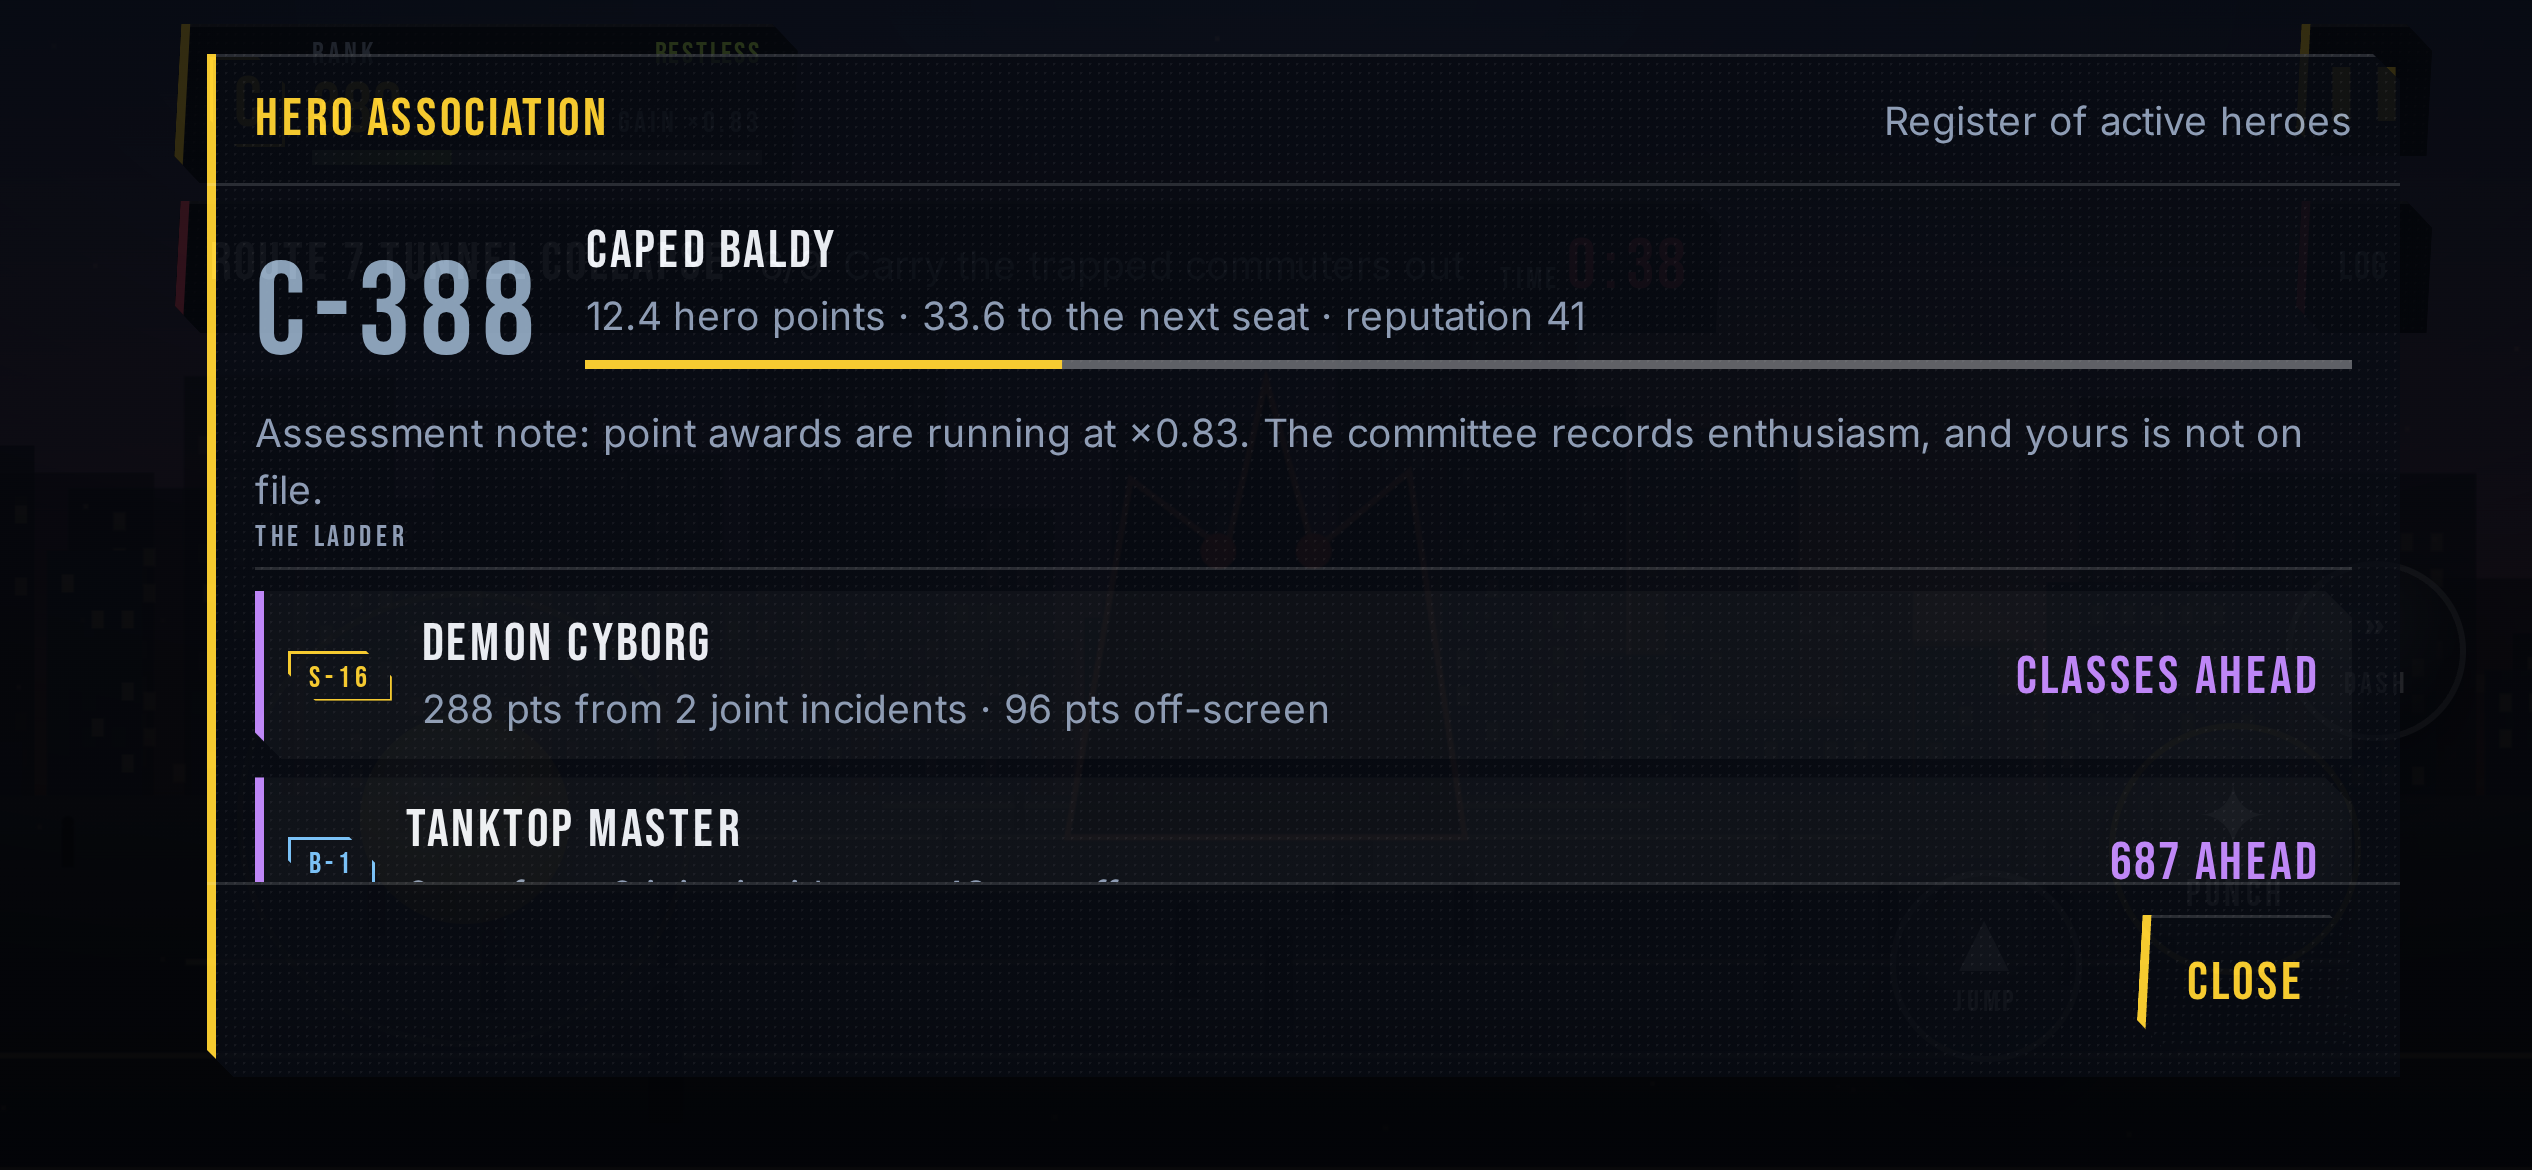
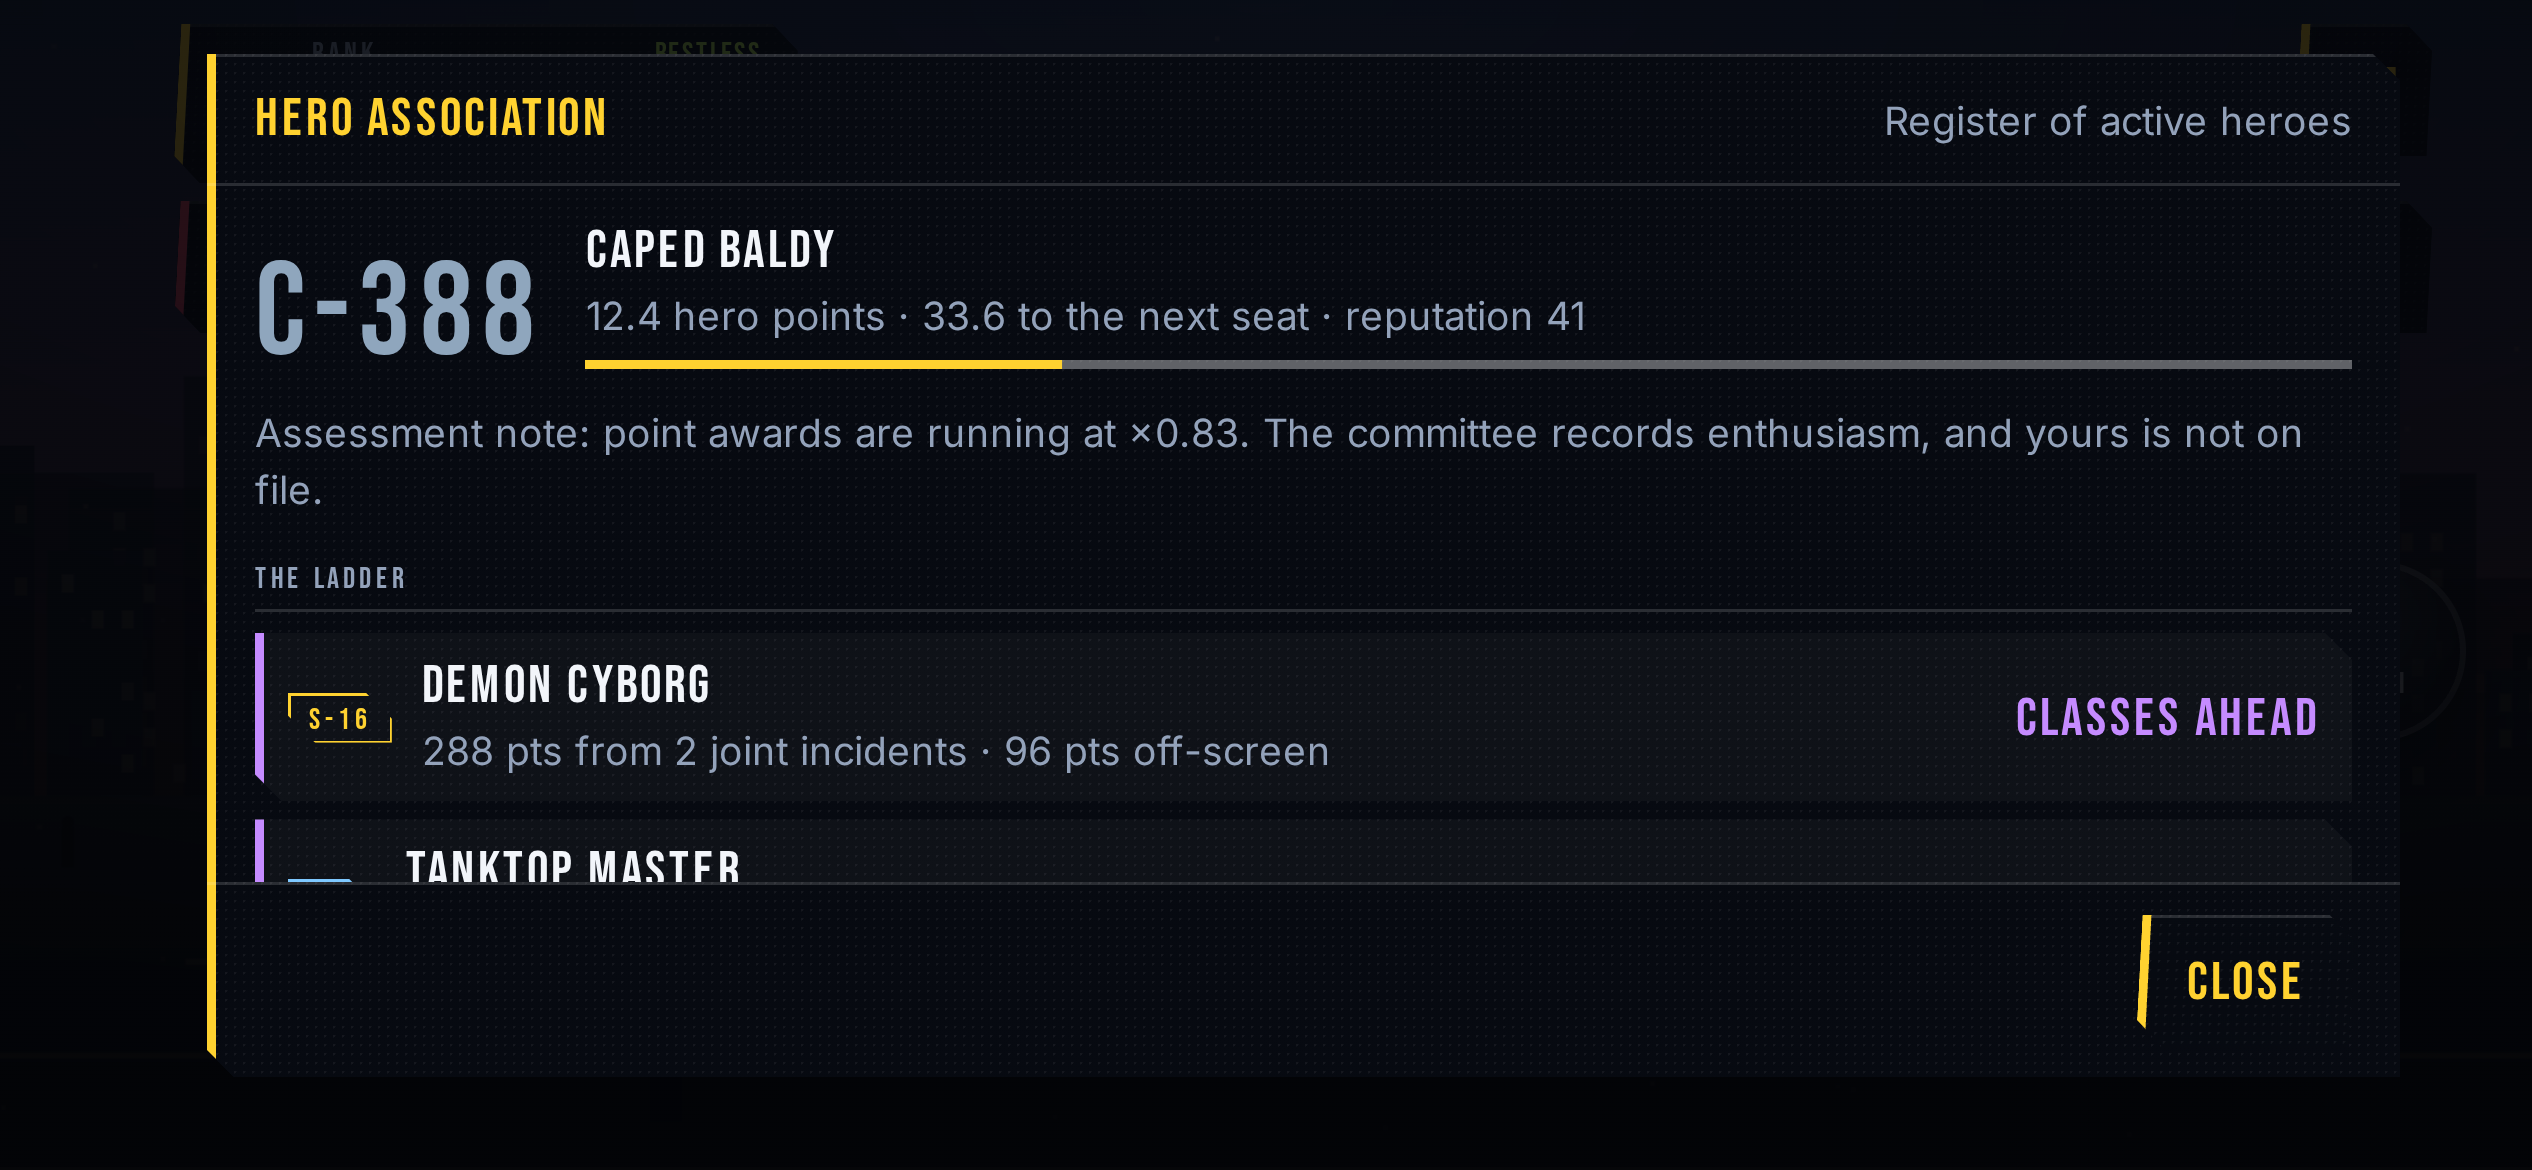
Refresh the HUD evidence after another redesign pass
159 harness checks, zero failures. CLS exactly 0 with no offending writes, and
`stolenTouches` still empty.

Claude-Session: https://claude.ai/code/session_01QU3kHNpXWhesDJjfHp9d7E

diff --git a/src/ui/hud/styles.ts b/src/ui/hud/styles.ts
@@ -92,8 +92,11 @@
  *   · the encounter card and the boss bar are ONE plate (the incident),
  *   · the quest tracker is a single-line DUTY STRIP, not a card.
  *
- * Four panels became three plates and a strip, and the band went from
- * overflowing at 100 % to fitting at 130 %.
+ * Six panels became three plates and a duty row, and the band went from
+ * overflowing at 100 % — the right column reached 6 px into a hand at 130 % —
+ * to closing at y=114 at 100 % and y=125 at 130 %, both above the 129 px line.
+ * `--hud-band-row` is this file's own statement of that budget and the harness
+ * fails if row one outgrows it.
  *
  * ── WHERE THE ALERTS WENT, AND WHY ─────────────────────────────────────────
  * The threat banner used to be `left:50%` in the z-index 4 layer while the
@@ -122,9 +125,9 @@
  * panels needed anyway: `--hud-surface` is 82 % opaque, tuned against the dusk
  * sky in the committed reference shots, and the shipping game is DAYTIME. The
  * rank chip's fill measurably swung rgb(30,32,37)→(39,44,52) with the windows
- * behind it. `--hud-panel` now lays the palette's own surface down TWICE, so
- * every palette composes to ~97 % by its own colour rather than by a literal,
- * and the city bleed drops from ~18 % to ~3 %.
+ * behind it. `--hud-panel` now lays the palette's own surface down THREE TIMES,
+ * so every palette composes to ~99 % by its own colour rather than by a
+ * literal, and the city bleed drops from ~18 % to under 1 %.
  *
  * ── EVERY ANIMATED PROPERTY IS COMPOSITED ──────────────────────────────────
  * `transform` and `opacity` only, and only three motions exist:
@@ -137,6 +140,10 @@
  *            bar that said zero.
  *   PULSE    urgent. A hard `steps(1,end)` flash. Never a fade: a fade reads as
  *            a rendering artefact, a flash reads as an alarm.
+ *
+ * THREE, and a screen opening is not one of them — see `.hud-screen`, which
+ * used to cross-fade for 160 ms and cost this project every readable screenshot
+ * of a modal it has ever committed.
  *
  * All three are killed outright by `[data-reduced-motion='true']` at the bottom
  * of this file.
@@ -355,9 +362,11 @@ ${allPalettes()}
   letter-spacing:.14em;text-transform:uppercase;
   color:var(--hud-ink-muted);line-height:1.1;white-space:nowrap;
 }
-/* Every live number on the playing HUD, at one size. The rank, the fight
-   clock, the ledger counts, the yen, the quest clock — they were 19, 21, 23,
-   17 and 20 px, which is why no two of them ever sat on a shared baseline. */
+/* EVERY LIVE NUMBER ON THE PLAYING HUD, AT ONE SIZE, FROM ONE RULE. The rank,
+   the fight clock, the ledger counts, the yen, the quest clock and the boot
+   percentage were 19, 21, 23, 17, 20 and 13 px in six separate declarations,
+   which is why no two of them ever sat on a shared baseline and why fixing one
+   never fixed the others. They all carry this class now. */
 .hud-readout{
   font-family:${DISPLAY_FONT};
   font-size:var(--t-readout);
@@ -382,7 +391,7 @@ ${allPalettes()}
   letter-spacing:.06em;text-transform:uppercase;
   color:var(--hud-ink);
   background:none;border:none;
-  padding:9px 16px;cursor:pointer;
+  padding:9px 16px;cursor:pointer;text-align:left;
   transition:transform .08s ease-out,color .12s;
   touch-action:none;will-change:transform;contain:layout style;
 }
@@ -399,7 +408,6 @@ ${allPalettes()}
    dropped the panel contrast the palette test measures. The edge rule and the
    glyph carry it instead, and High contrast gets louder rather than muddier. */
 .hud-btn--primary{--hud-edge:var(--hud-accent);color:var(--hud-accent)}
-.hud-btn--ghost{--hud-edge:transparent}
 
 /* ========================================================================== */
 /* Combat HUD — the top band                                                  */
@@ -466,10 +474,7 @@ ${allPalettes()}
   color:var(--hud-ink-muted);line-height:1.1;flex:0 0 auto;
 }
 .hud-rankchip__seat{display:flex;align-items:baseline;justify-content:space-between;gap:10px;min-width:0}
-.hud-rankchip__rank{
-  font-family:${DISPLAY_FONT};font-size:var(--t-readout);line-height:1;letter-spacing:.01em;
-  font-variant-numeric:tabular-nums;color:var(--hud-class,var(--hud-accent));flex:0 0 auto;
-}
+.hud-rankchip__rank{color:var(--hud-class,var(--hud-accent));flex:0 0 auto}
 
 /* ---- boredom, inside the hero file ------------------------------------- */
 /* The game's real progress bar. Presented as a MOOD: a word, a slow breath,
@@ -549,10 +554,7 @@ ${allPalettes()}
   flex:1 1 auto;min-width:0;
   overflow:hidden;text-overflow:ellipsis;white-space:nowrap;
 }
-.hud-encounter__clock{
-  font-family:${DISPLAY_FONT};font-size:var(--t-readout);line-height:1;letter-spacing:.01em;
-  font-variant-numeric:tabular-nums;color:var(--hud-ink);flex:0 0 auto;
-}
+.hud-encounter__clock{color:var(--hud-ink);flex:0 0 auto}
 .hud-encounter__clock .hud-num{font-size:inherit}
 .hud-encounter__sep{opacity:.55}
 /* Boss health: the plate's base rule, only the geometry the compositor can do */
@@ -585,10 +587,6 @@ ${allPalettes()}
 }
 .hud-ledger[data-lost='true']{--hud-edge:var(--hud-lost)}
 .hud-ledger__cell{display:flex;flex-direction:column;align-items:flex-start;gap:1px;min-width:0}
-.hud-ledger__value{
-  font-family:${DISPLAY_FONT};font-size:var(--t-readout);line-height:1;letter-spacing:.01em;
-  font-variant-numeric:tabular-nums;
-}
 .hud-ledger__cell--saved .hud-ledger__value{color:var(--hud-saved)}
 .hud-ledger__cell--lost .hud-ledger__value{color:var(--hud-lost)}
 .hud-ledger__cell--cost .hud-ledger__value{color:var(--hud-collateral)}
@@ -649,7 +647,7 @@ ${allPalettes()}
    button sits at the TRAILING end of a strip that spans the whole band, which
    puts it in the trailing 55 % on every profile the harness drives. */
 .hud-tracker__open{
-  flex:0 0 auto;width:${MIN_TAP_PX}px;padding:0;
+  flex:0 0 auto;width:${MIN_TAP_PX}px;padding:0 0 0 .06em;
   display:grid;place-items:center;
   font-size:var(--t-body);letter-spacing:.06em;color:var(--hud-ink-muted);
 }
@@ -674,11 +672,7 @@ ${allPalettes()}
 .hud-tracker__count{font-variant-numeric:tabular-nums;color:var(--hud-ink);flex:0 0 auto}
 .hud-tracker__plate .hud-tracker__obj{overflow:hidden;text-overflow:ellipsis;white-space:nowrap}
 .hud-tracker__what{overflow:hidden;text-overflow:ellipsis;white-space:nowrap;min-width:0}
-.hud-tracker__clock{
-  display:flex;align-items:baseline;gap:2px;flex:0 0 auto;
-  font-family:${DISPLAY_FONT};font-size:var(--t-readout);line-height:1;letter-spacing:.01em;
-  font-variant-numeric:tabular-nums;
-}
+.hud-tracker__clock{display:flex;align-items:baseline;gap:2px;flex:0 0 auto}
 /* PULSE. A hard flash, never a fade — a fade reads as a rendering artefact. */
 .hud-tracker[data-urgency='critical'] .hud-tracker__clock{
   color:var(--hud-lost);
@@ -727,12 +721,14 @@ ${allPalettes()}
 .hud-charge__label{
   position:absolute;left:0;right:0;bottom:15px;text-align:center;
   font-family:${DISPLAY_FONT};font-size:var(--t-title);letter-spacing:.06em;
+  padding-left:.06em;
   color:var(--hud-intent,var(--hud-commit));
 }
 .hud-charge__label::after{content:var(--hud-intent-label,'NORMAL')}
 .hud-charge__cost{
   position:absolute;left:0;right:0;bottom:0;text-align:center;
-  font-size:var(--t-micro);letter-spacing:.14em;color:var(--hud-collateral);
+  font-size:var(--t-micro);letter-spacing:.14em;padding-left:.14em;
+  color:var(--hud-collateral);
   opacity:var(--hud-on,0);
 }
 .hud-charge__cost .hud-num{font-size:inherit}
@@ -845,21 +841,43 @@ ${allPalettes()}
 .hud-marker[data-kind='objective'] .hud-marker__pip{border-radius:50%}
 .hud-marker[data-kind='civilian'] .hud-marker__pip{border-radius:50%;width:9px;height:9px}
 .hud-marker[data-kind='errand'] .hud-marker__pip{border-radius:2px}
-.hud-marker__label{font-size:var(--t-micro);color:var(--hud-marker-color,var(--hud-accent))}
-.hud-marker__dist{font-size:var(--t-micro);color:var(--hud-ink-muted);letter-spacing:.14em}
+/* CSS adds letter-spacing after the FINAL glyph too, so a CENTRED tracked run
+   sits half a tracking unit left of the thing it is centred under — measured at
+   2.00 px on the old boot title. A padding-left equal to the tracking puts the
+   ink back on the axis exactly, and under a projected map pin that axis is the
+   pin. Same fix on the charge arc's two centred lines. */
+.hud-marker__label{
+  font-size:var(--t-micro);padding-left:.14em;
+  color:var(--hud-marker-color,var(--hud-accent));
+}
+.hud-marker__dist{
+  font-size:var(--t-micro);letter-spacing:.14em;padding-left:.14em;
+  color:var(--hud-ink-muted);
+}
 .hud-marker[data-far='true'] .hud-marker__label{display:none}
 
 /* ========================================================================== */
 /* Screens                                                                    */
 /* ========================================================================== */
+/* A SCREEN DOES NOT ANIMATE IN, and that is a deliberate subtraction rather
+   than an omission. There are three motion verbs in this HUD — stamp, breathe,
+   pulse — and a 160 ms cross-fade of an entire modal was a fourth: it said
+   nothing the scrim does not say instantly, it delayed the only escape hatch in
+   the game by a tenth of a second, and it cost this project something concrete.
+   Every modal shot in docs/screenshots was taken two frames after the screen
+   opened, which is 33 ms into that fade, so every piece of committed evidence
+   for the pause menu, the invoice and the settings sheet was a 20 %-opaque
+   ghost with the city legible through it. Nobody could review those screens
+   because nobody could see them.
+   Stamping the sheet instead is not available: STAMP scales from 1.06, and a
+   sheet already 751 px wide inside a 751 px safe box would spend 120 ms
+   overflowing the notch. */
 .hud-screen{
   position:absolute;inset:0;display:flex;pointer-events:auto;
   background:radial-gradient(120% 90% at 50% 0%,rgba(4,6,11,.80),rgba(2,3,6,.94));
   padding:calc(var(--hud-sa-t) + 10px) calc(var(--hud-sa-r) + 10px)
           calc(var(--hud-sa-b) + 10px) calc(var(--hud-sa-l) + 10px);
-  animation:hud-screen-in .16s ease-out;
 }
-@keyframes hud-screen-in{from{opacity:0}to{opacity:1}}
 .hud-screen--centre{align-items:center;justify-content:center}
 /* A document lies FLAT. The lean is for field plates stamped in a hurry; the
    paperwork the Association files is not in a hurry, and a 3° skew over 400 px
@@ -898,8 +916,11 @@ ${allPalettes()}
   padding:10px 16px;border-top:1px solid var(--hud-line);flex:0 0 auto;
 }
 
-.hud-section{margin:0 0 14px}
-.hud-section:last-child{margin-bottom:0}
+/* Spacing goes on the TOP of a section, not the bottom, so a section is
+   separated from whatever precedes it — including the rank board's assessment
+   note, which is not a section and used to butt straight into "THE LADDER". */
+.hud-section{margin:14px 0 0}
+.hud-section:first-child{margin-top:0}
 .hud-section__title{
   font-family:${DISPLAY_FONT};font-size:var(--t-micro);letter-spacing:.14em;text-transform:uppercase;
   color:var(--hud-ink-muted);padding-bottom:4px;margin-bottom:7px;
@@ -1075,10 +1096,7 @@ ${allPalettes()}
    238 px from the fill head with a 167 px void in between — and the row's
    justify-content:center was dead code for the same reason. */
 .hud-loading__row{display:flex;align-items:baseline;gap:10px;margin-top:9px}
-.hud-loading__pct{
-  font-family:${DISPLAY_FONT};font-size:var(--t-readout);line-height:1;letter-spacing:.01em;
-  color:var(--hud-accent);flex:0 0 auto;
-}
+.hud-loading__pct{color:var(--hud-accent);flex:0 0 auto}
 .hud-loading__label{
   font-family:${DISPLAY_FONT};font-size:var(--t-micro);letter-spacing:.14em;text-transform:uppercase;
   color:var(--hud-ink-muted);

diff --git a/src/ui/hud/screens/combat-hud.ts b/src/ui/hud/screens/combat-hud.ts
@@ -264,7 +264,7 @@ export class CombatHudScreen extends HudScreen {
               className: 'hud-rankchip__seat',
               children: [
                 el(doc, 'span', {
-                  className: 'hud-rankchip__rank',
+                  className: 'hud-readout hud-rankchip__rank',
                   children: [this.rankNumber.element],
                 }),
                 this.boredomGain,
@@ -305,7 +305,7 @@ export class CombatHudScreen extends HudScreen {
             this.encounterTier,
             this.encounterName,
             el(doc, 'span', {
-              className: 'hud-encounter__clock',
+              className: 'hud-readout hud-encounter__clock',
               children: [
                 this.clockMinutes.element,
                 el(doc, 'span', { className: 'hud-encounter__sep', text: ':' }),
@@ -324,7 +324,7 @@ export class CombatHudScreen extends HudScreen {
     this.lostCount = new CssNumber(doc, { id: 'lost' });
     this.witnessCount = new CssNumber(doc, { id: 'witness' });
     this.costYen = new CssNumber(doc, {
-      className: 'hud-ledger__value',
+      className: 'hud-readout hud-ledger__value',
       decimals: 2,
       prefix: '¥',
       suffix: 'B',
@@ -366,7 +366,7 @@ export class CombatHudScreen extends HudScreen {
     this.trackerMinutes = new CssNumber(doc, { id: 'q-m' });
     this.trackerSeconds = new CssNumber(doc, { pad2: true, id: 'q-s' });
     this.trackerClock = el(doc, 'div', {
-      className: 'hud-tracker__clock',
+      className: 'hud-readout hud-tracker__clock',
       children: [
         el(doc, 'span', { className: 'hud-label', text: 'TIME' }),
         this.trackerMinutes.element,
@@ -498,7 +498,7 @@ export class CombatHudScreen extends HudScreen {
       className: `hud-ledger__cell ${modifier}`,
       children: [
         el(this.doc, 'span', { className: 'hud-label', text: label }),
-        el(this.doc, 'span', { className: 'hud-ledger__value', children: [value] }),
+        el(this.doc, 'span', { className: 'hud-readout hud-ledger__value', children: [value] }),
       ],
     });
   }

diff --git a/src/ui/hud/screens/loading.ts b/src/ui/hud/screens/loading.ts
@@ -104,7 +104,7 @@ export class LoadingScreen extends HudScreen {
             className: 'hud-loading__row',
             children: [
               el(doc, 'span', {
-                className: 'hud-loading__pct',
+                className: 'hud-readout hud-loading__pct',
                 children: [this.percent.element],
               }),
               this.label,
